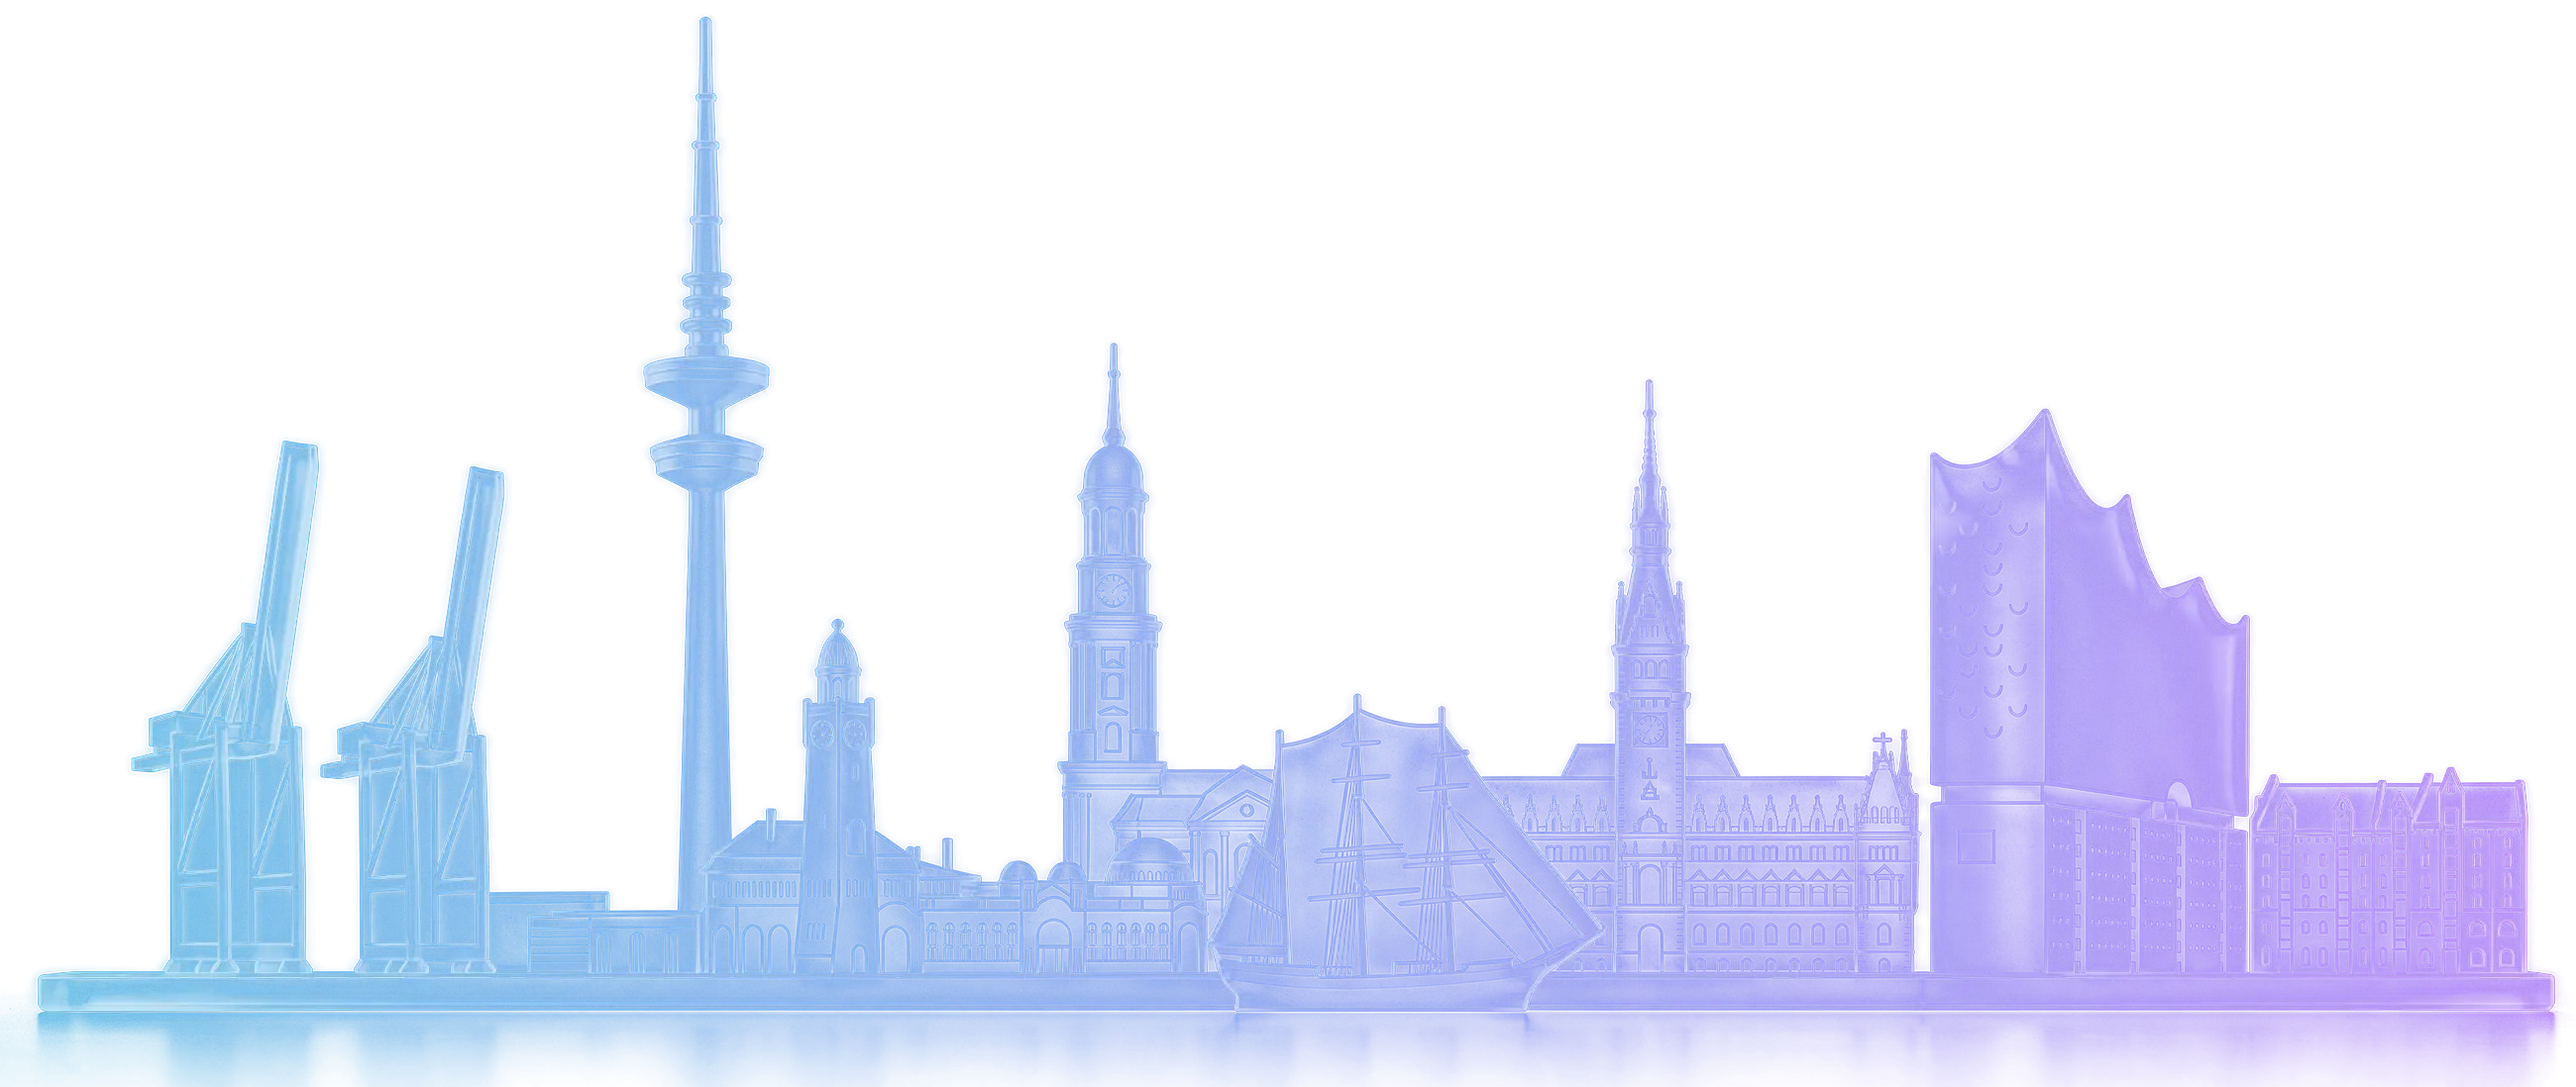
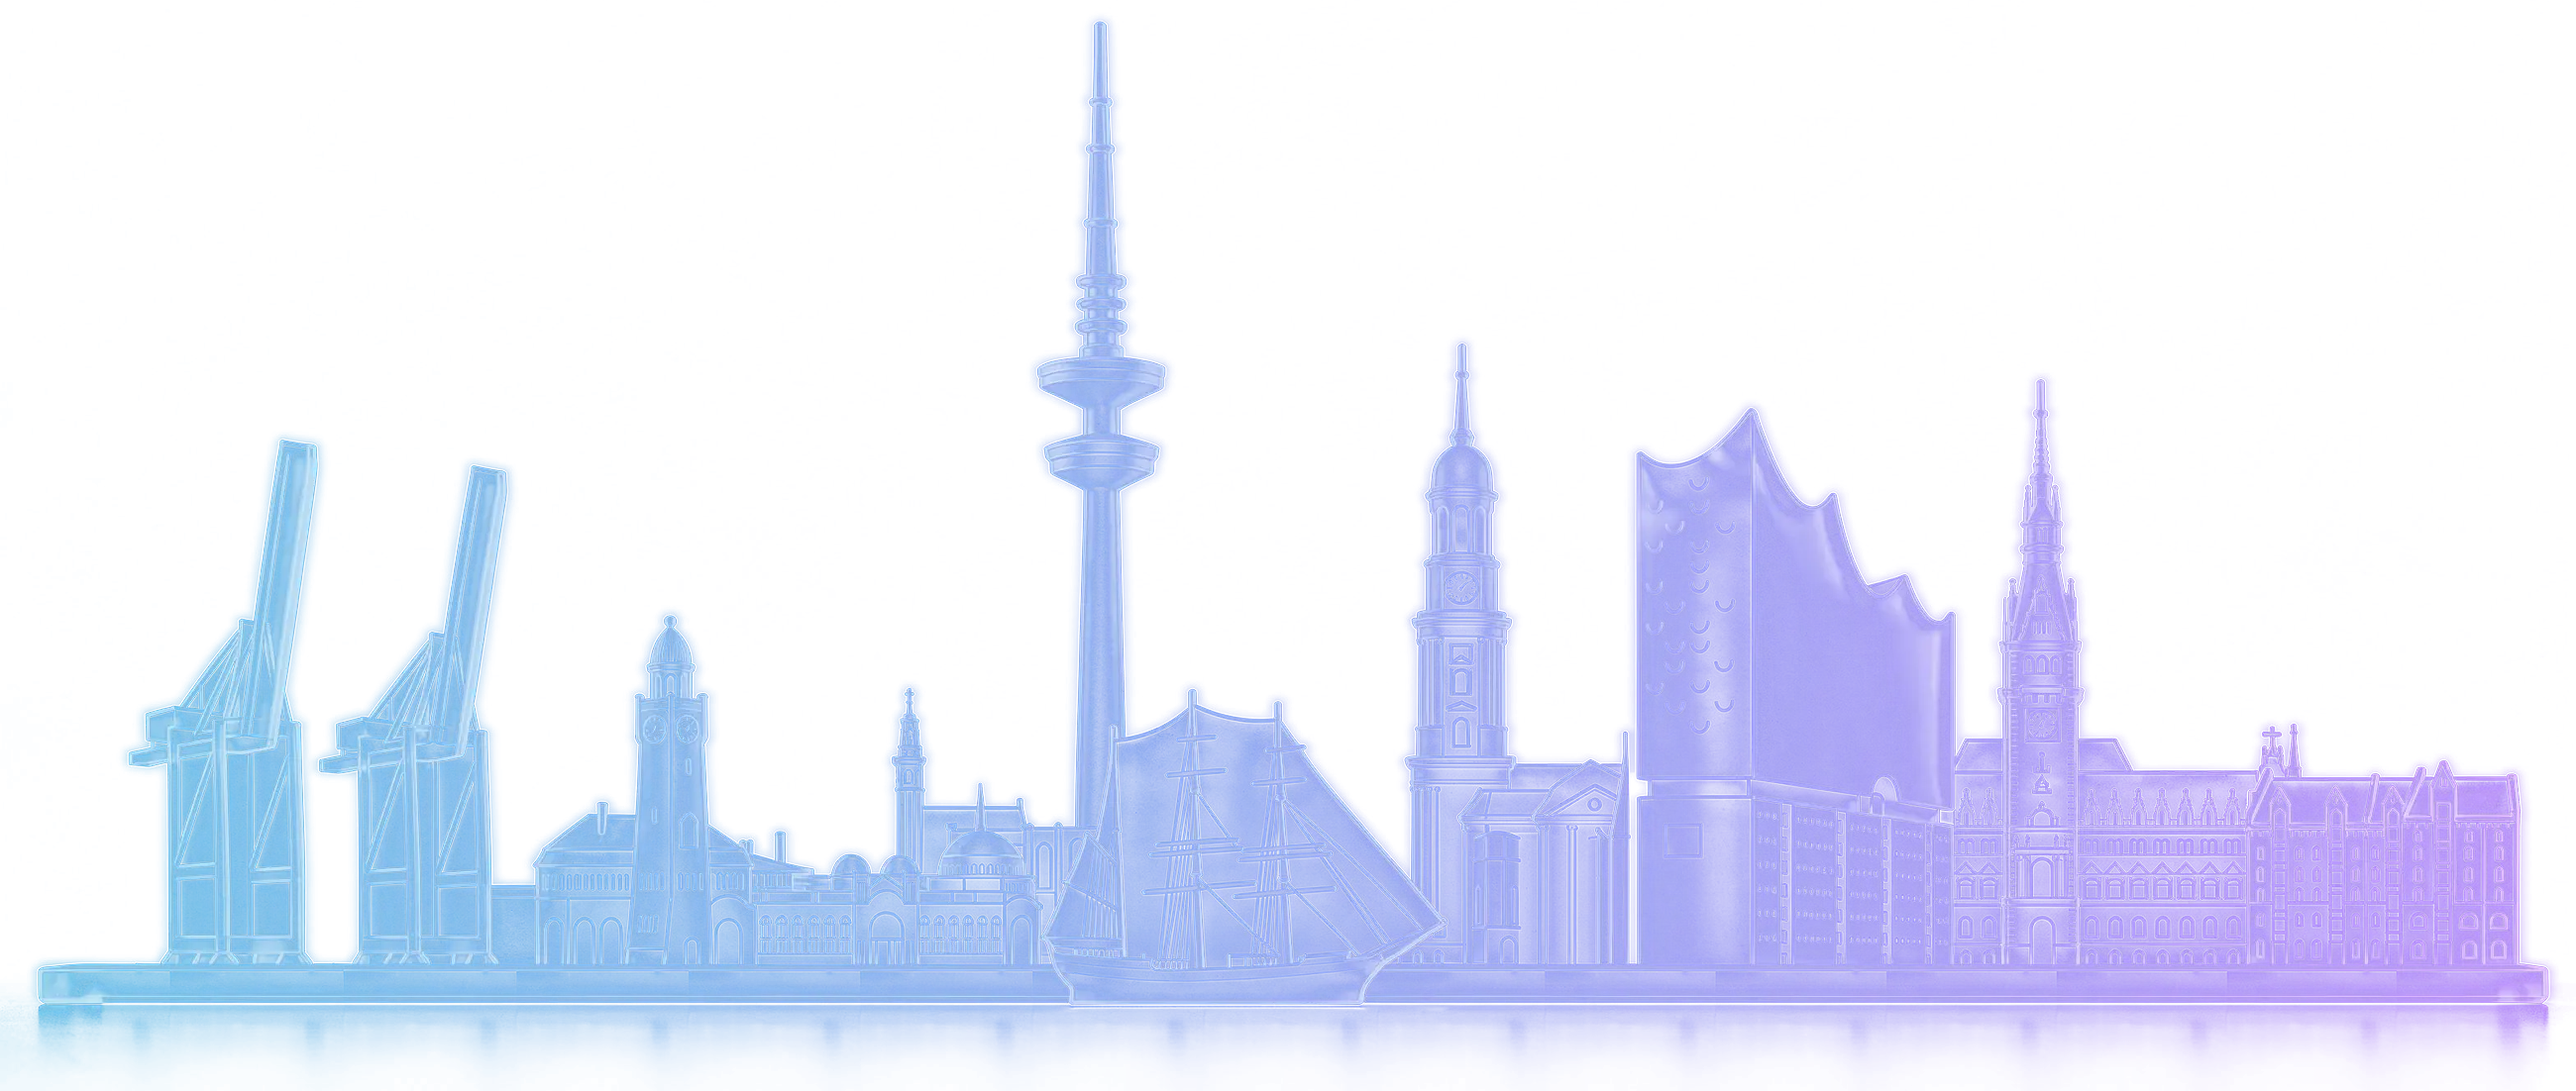
feat(lavender): glass skyline with the landmarks in west-to-east order
New FLUX 3 rendering from a rearranged version of the previous one:
cranes, Landungsbruecken, TV tower, Rickmer Rickmers, Michel,
Elbphilharmonie, town hall, Speicherstadt. Landmark positions for the
walking light, the picture ratio and the guide star's resting place follow.

Claude-Session: https://claude.ai/code/session_01HutgGfgwiiTnT4X53NFX4e

Changed region(s): [[0.0, 0.031, 0.9969, 1.0]]

diff --git a/src/components/lavender/HamburgGlass.tsx b/src/components/lavender/HamburgGlass.tsx
@@ -11,7 +11,7 @@ import { cn } from '@/components/ui/utils';
  * coloured blue to violet).
  *
  * Two congruent renderings with a transparent ground
- * (public/images/hamburg-glas-*.webp, 2600 × 1098): one unlit, one lit from
+ * (public/images/hamburg-glas-*.webp, 2600 × 1102): one unlit, one lit from
  * inside in the double star's colours. No blend mode, so the city may stand
  * in a sticky or transformed parent. At rest the city is dark; the lit rendering shows through an elliptical
  * mask that follows the pointer (styles: .lav-hamburg in globals.css).
@@ -27,15 +27,16 @@ import { cn } from '@/components/ui/utils';
  */
 
 /** Landmarks left to right: centre x, half width, light centre y, light height (fractions of the image). */
+// From west to east, as the city lies along the Elbe.
 const LANDMARKS = [
-  { x: 0.126, half: 0.075, y: 0.68, ry: 0.5 }, // Hafenkräne
-  { x: 0.274, half: 0.03, y: 0.45, ry: 0.9 }, // Fernsehturm
-  { x: 0.36, half: 0.09, y: 0.76, ry: 0.4 }, // Landungsbrücken
-  { x: 0.432, half: 0.045, y: 0.6, ry: 0.66 }, // Michel
-  { x: 0.545, half: 0.075, y: 0.78, ry: 0.36 }, // Rickmer Rickmers
-  { x: 0.66, half: 0.09, y: 0.64, ry: 0.62 }, // Rathaus
-  { x: 0.81, half: 0.065, y: 0.64, ry: 0.56 }, // Elbphilharmonie
-  { x: 0.927, half: 0.055, y: 0.8, ry: 0.3 }, // Speicherstadt
+  { x: 0.124, half: 0.075, y: 0.68, ry: 0.5 }, // Hafenkräne
+  { x: 0.308, half: 0.1, y: 0.78, ry: 0.4 }, // Landungsbrücken
+  { x: 0.427, half: 0.03, y: 0.45, ry: 0.9 }, // Fernsehturm
+  { x: 0.482, half: 0.078, y: 0.78, ry: 0.36 }, // Rickmer Rickmers
+  { x: 0.575, half: 0.045, y: 0.6, ry: 0.66 }, // Michel
+  { x: 0.696, half: 0.065, y: 0.64, ry: 0.56 }, // Elbphilharmonie
+  { x: 0.815, half: 0.06, y: 0.64, ry: 0.62 }, // Rathaus
+  { x: 0.926, half: 0.055, y: 0.8, ry: 0.3 }, // Speicherstadt
 ] as const;
 
 type Light = { x: number; y: number; rx: number; ry: number; a: number };

diff --git a/src/components/lavender/nightSky.ts b/src/components/lavender/nightSky.ts
@@ -33,7 +33,7 @@ const DEFAULT_SOURCES = { double: '/images/nacht-stern-doppel.webp' };
 /** Mostly white, a few in the brand's light tints. */
 const TINTS = ['#ffffff', '#ffffff', '#ffffff', '#f5e1ff', '#bde3f4', '#bde3f4'];
 /** Height / width of the Hamburg rendering (HamburgGlass). */
-const SKYLINE_RATIO = 1098 / 2600;
+const SKYLINE_RATIO = 1102 / 2600;
 
 type FieldStar = { angle: number; radius: number; size: number; tint: string; rate: number; phase: number };
 /** One star glinting: which one, since when, for how long, and how long its cross gets (px). */
@@ -246,12 +246,12 @@ export function startNightSky(
       ? { x: W * 0.72, y: H * 0.3, size: W * 1.15 }
       : { x: W * 0.76, y: H * 0.46, size: Math.min(W * 0.66, H * 1.1) };
     const small = { ...pole(), size: Math.max(120, Math.min(W, H) * 0.19) };
-    // Over the city it rests in a gap of sky: between the Rathaus tower and the
-    // Elbphilharmonie at the end of the page, above the Speicherstadt in the
+    // Over the city it rests in a gap of sky: between the Elbphilharmonie's
+    // crest and the Rathaus tower at the end of the page, above the Speicherstadt in the
     // hero (where the text block sits above the middle of the city).
     const box = city?.getBoundingClientRect();
     const skyline = box ? box.height : W * SKYLINE_RATIO;
-    const at = cityInHero ? { x: 0.9, y: 0.3 } : { x: 0.69, y: 0.2 };
+    const at = cityInHero ? { x: 0.9, y: 0.3 } : { x: 0.735, y: 0.2 };
     const land = {
       // Never off screen (on phones the city is wider than the screen).
       x: Math.min(W * 0.86, (box ? box.left : 0) + (box ? box.width : W) * at.x),

diff --git a/src/components/lavender/HomeNightLavender.tsx b/src/components/lavender/HomeNightLavender.tsx
@@ -337,7 +337,7 @@ function HeroHamburg({ hidden, covered }: { hidden: boolean; covered: boolean })
         </Button>
       </div>
       {/* On phones the full skyline would be a thin strip: show the middle of it
-          larger (TV tower to Elbphilharmonie). From tablets up it spans the
+          larger (Landungsbrücken to Rathaus). From tablets up it spans the
           screen and fades towards the text block (.lav-hamburg-haze). */}
       <HamburgGlass className="lav-hamburg-haze absolute bottom-0 left-[-36%] w-[160%] md:left-0 md:w-full" />
     </div>

diff --git a/src/styles/globals.css b/src/styles/globals.css
@@ -857,7 +857,7 @@ html {
      round window that follows the pointer (HamburgGlass.tsx moves it). */
   .lav-hamburg {
     position: relative;
-    aspect-ratio: 2600 / 1098;
+    aspect-ratio: 2600 / 1102;
     touch-action: pan-y;
   }
   /* In the hero the headline stands in the sky above the skyline: from tablets

diff --git a/docs/design-migration.md b/docs/design-migration.md
@@ -220,7 +220,9 @@ Stand:
       (NightFooter.tsx: Schlusszeile, Glas-Skyline, Leiste mit „Based in Hamburg.“, Impressum,
       Datenschutz, LinkedIn, Nach oben) statt `ClosingBlock` / `Footer`. Sprünge zu Abschnitten
       laufen über `glide.ts` (folgt dem Ziel, auch wenn sich die Seite verschiebt). Die Skyline
-      ist eine neue Fassung (FLORA, FLUX 3; 2600 × 1098; beleuchtet = dieselbe Fassung in
+      ist eine neue Fassung (FLORA, FLUX 3; 2600 × 1102; seit 13.11. nachmittags mit den
+      Gebäuden in der Reihenfolge von West nach Ost: Kräne, Landungsbrücken, Fernsehturm,
+      Rickmer Rickmers, Michel, Elbphilharmonie, Rathaus, Speicherstadt; beleuchtet = dieselbe Fassung in
       Blau/Lila eingefärbt). Durchsicht mit drei Skill-Sammlungen (taste-skill, impeccable,
       Emil Kowalski): Fokusring auf dunklem Grund, einheitliche Außenkanten, Abstände in den
       Textblöcken (16/24/32), Leistungen mit fester Höhe beim Tab-Wechsel, Autor neben dem
